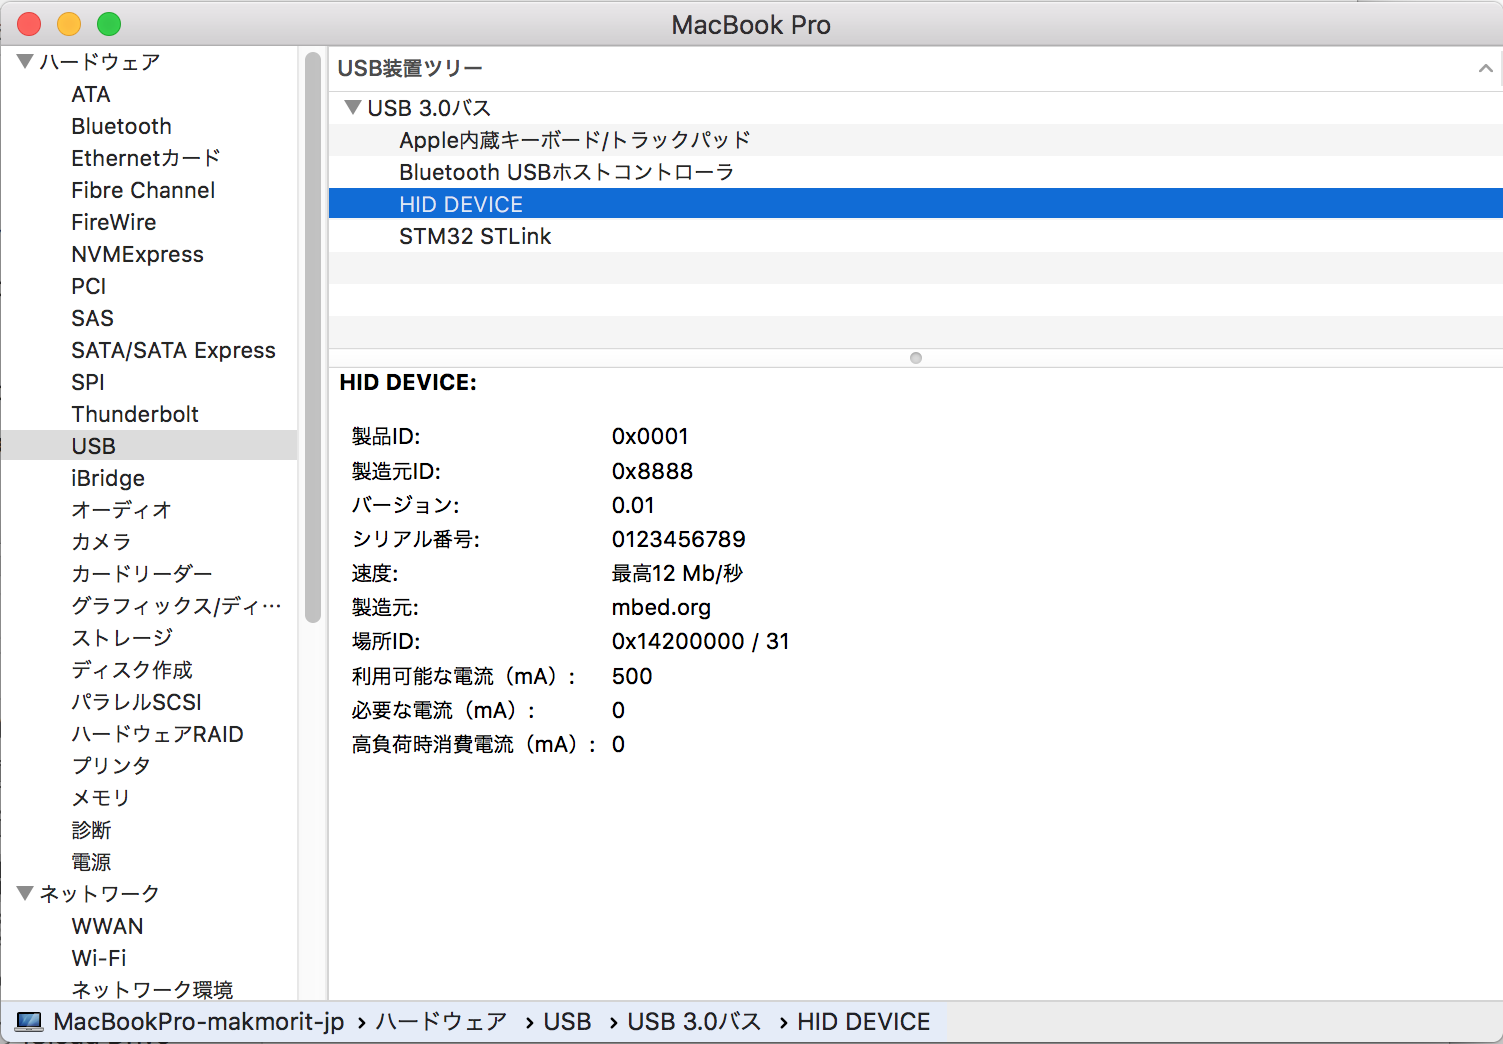
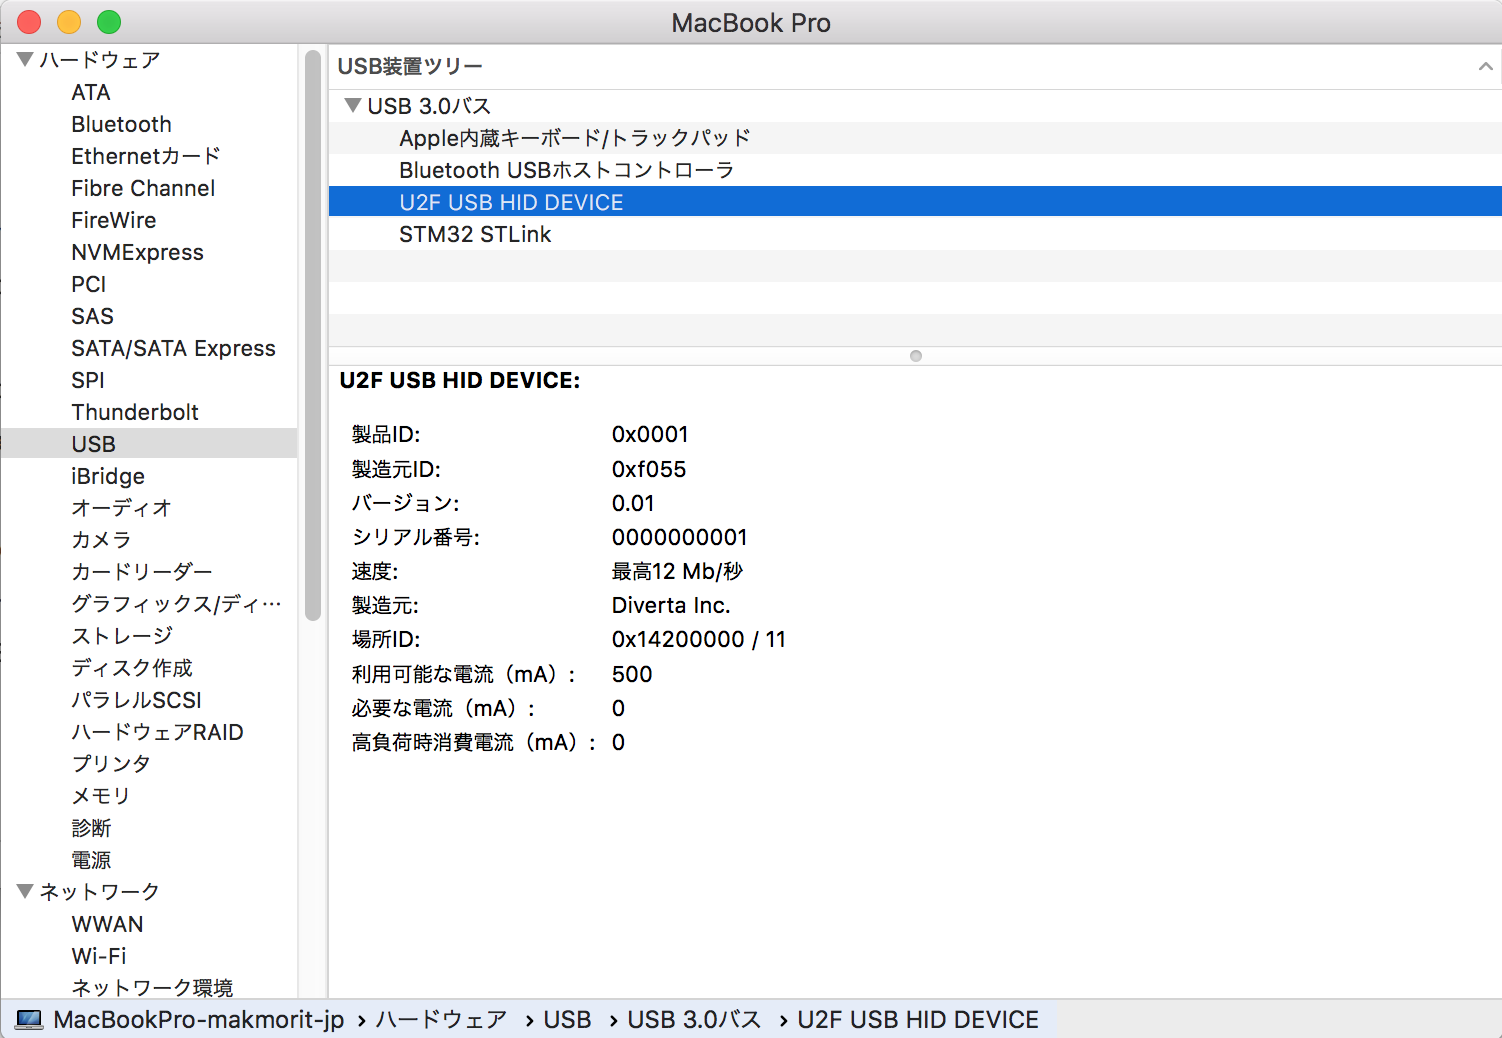
レポートを修正
・U2F USB HIDデバイスであることを明確にしたかったので、デバイスプログラムを修正
・製造元IDをよく知られたプロトタイプ用のID（0xF055）に変更
・製造元名をDiverta Inc.と修正
・上記修正に合わせてレポートの記述を修正

diff --git a/Research/USBHID/NucleoF411RE_usbmouse/USBU2FAuthenticator.cpp b/Research/USBHID/NucleoF411RE_usbmouse/USBU2FAuthenticator.cpp
@@ -6,20 +6,20 @@ uint8_t *USBU2FAuthenticator::reportDesc() {
     static uint8_t reportDescriptor[] = 
     {
         0x06, 0xd0, 0xf1,   // USAGE_PAGE (FIDO Alliance)
-        0x09, 0x01,         // USAGE (Keyboard)
+        0x09, 0x01,         // USAGE (FIDO U2F HID)
         0xa1, 0x01,         // COLLECTION (Application)
         0x09, 0x20,         //   USAGE (Input Report Data)
         0x15, 0x00,         //   LOGICAL_MINIMUM (0)
         0x26, 0xff, 0x00,   //   LOGICAL_MAXIMUM (255)
         0x75, 0x08,         //   REPORT_SIZE (8)
         0x95, 64,           //   REPORT_COUNT (64)
-        0x81, 0x02,         //   INPUT (Data,Var,Abs)
-        0x09, 0x21,         //   USAGE(Output Report Data)
+        0x81, 0x02,         //   INPUT (Data | Absolute | Variable)
+        0x09, 0x21,         //   USAGE (Output Report Data)
         0x15, 0x00,         //   LOGICAL_MINIMUM (0)
         0x26, 0xff, 0x00,   //   LOGICAL_MAXIMUM (255)
         0x75, 0x08,         //   REPORT_SIZE (8)
         0x95, 64,           //   REPORT_COUNT (64)
-        0x91, 0x02,         //   OUTPUT (Data,Var,Abs)
+        0x91, 0x02,         //   OUTPUT (Data | Absolute | Variable)
         0xc0,               // END_COLLECTION
     };
     reportLength = sizeof(reportDescriptor);
@@ -81,4 +81,68 @@ uint8_t *USBU2FAuthenticator::configurationDesc() {
         5,                              // bInterval        (milliseconds)
     };
     return configurationDescriptor;
+}
+
+uint8_t *USBU2FAuthenticator::stringImanufacturerDesc() {
+    static uint8_t stringImanufacturerDescriptor[] = {
+        26,                 /*bLength*/
+        STRING_DESCRIPTOR,  /*bDescriptorType 0x03*/
+        'D',0,
+        'i',0,
+        'v',0,
+        'e',0,
+        'r',0,
+        't',0,
+        'a',0,
+        ' ',0,
+        'I',0,
+        'n',0,
+        'c',0, 
+        '.',0
+    };                      /*bString iManufacturer*/
+    return stringImanufacturerDescriptor;
+}
+
+uint8_t *USBU2FAuthenticator::stringIproductDesc() {
+    static uint8_t stringIproductDescriptor[] = {
+        38,                 /*bLength*/
+        STRING_DESCRIPTOR,  /*bDescriptorType 0x03*/
+        'U',0,
+        '2',0,
+        'F',0,
+        ' ',0,
+        'U',0,
+        'S',0,
+        'B',0,
+        ' ',0,
+        'H',0,
+        'I',0,
+        'D',0,
+        ' ',0,
+        'D',0,
+        'E',0,
+        'V',0,
+        'I',0,
+        'C',0,
+        'E',0
+    };                      /*bString iProduct*/
+    return stringIproductDescriptor;
+}
+
+uint8_t * USBU2FAuthenticator::stringIserialDesc() {
+    static uint8_t stringIserialDescriptor[] = {
+        0x16,               /*bLength*/
+        STRING_DESCRIPTOR,  /*bDescriptorType 0x03*/
+        '0',0,
+        '0',0,
+        '0',0,
+        '0',0,
+        '0',0,
+        '0',0,
+        '0',0,
+        '0',0,
+        '0',0,
+        '1',0
+    };                      /*bString iSerial*/
+    return stringIserialDescriptor;
 }

diff --git a/Research/USBHID/NucleoF411RE_usbmouse/USBU2FAuthenticator.h b/Research/USBHID/NucleoF411RE_usbmouse/USBU2FAuthenticator.h
@@ -9,7 +9,7 @@ class USBU2FAuthenticator: public USBHID
         //
         // Constructor
         //
-        USBU2FAuthenticator(bool debug, uint16_t vendor_id = 0x8888, uint16_t product_id = 0x0001, uint16_t product_release = 0x0001)
+        USBU2FAuthenticator(bool debug, uint16_t vendor_id=0xf055, uint16_t product_id=0x0001, uint16_t product_release=0x0001)
         : USBHID(0, 0, vendor_id, product_id, product_release, false)
         {
             this->debug = debug;
@@ -20,6 +20,15 @@ class USBU2FAuthenticator: public USBHID
         // To define the report descriptor. 
         //
         virtual uint8_t * reportDesc();
+        //
+        // Get string manufacturer/product descriptor
+        //
+        virtual uint8_t * stringImanufacturerDesc();
+        virtual uint8_t * stringIproductDesc();
+        //
+        // Get string serial descriptor
+        //
+        virtual uint8_t * stringIserialDesc();
 
     protected:
         //

diff --git a/Research/USBHID/NucleoF411RE_usbmouse/main.cpp b/Research/USBHID/NucleoF411RE_usbmouse/main.cpp
@@ -10,7 +10,7 @@ int main(void) {
     printf("----- U2F Authenticator sample start -----\r\n");
     
     //
-    // これはダミーです。
+    // １バイトのメッセージを出力
     //
     HID_REPORT report;
     report.data[0] = 0x01;
